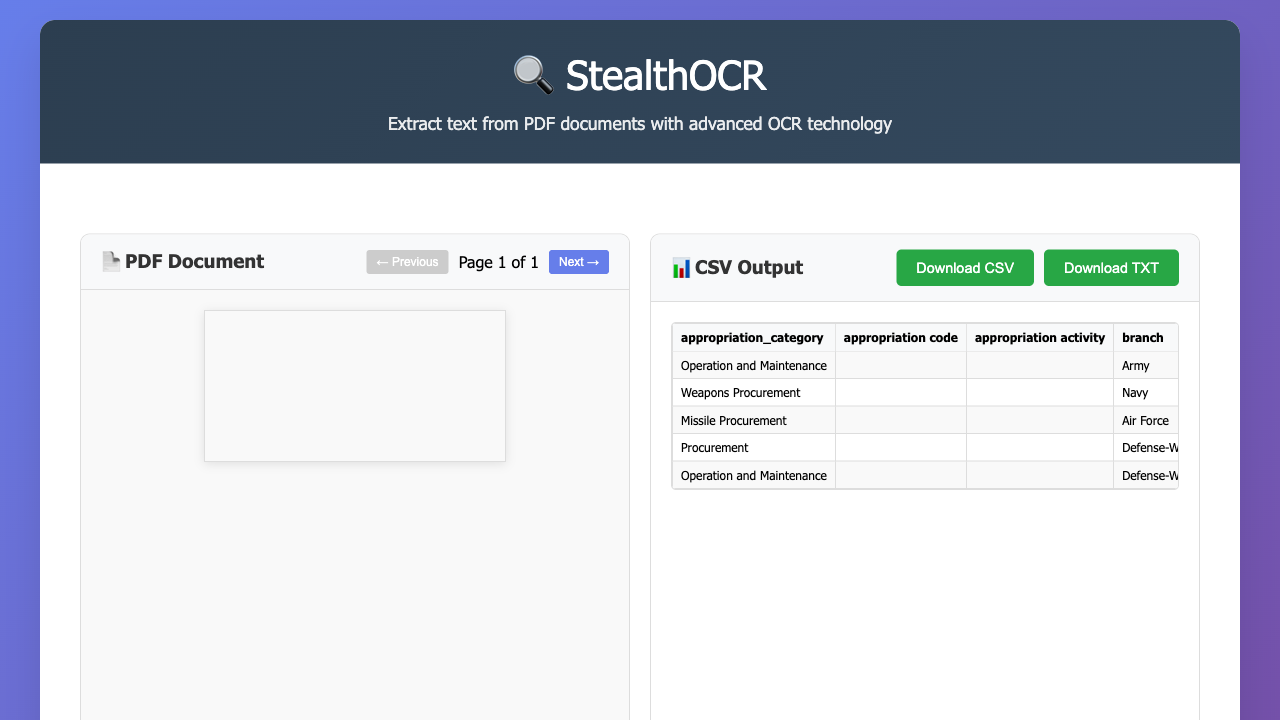
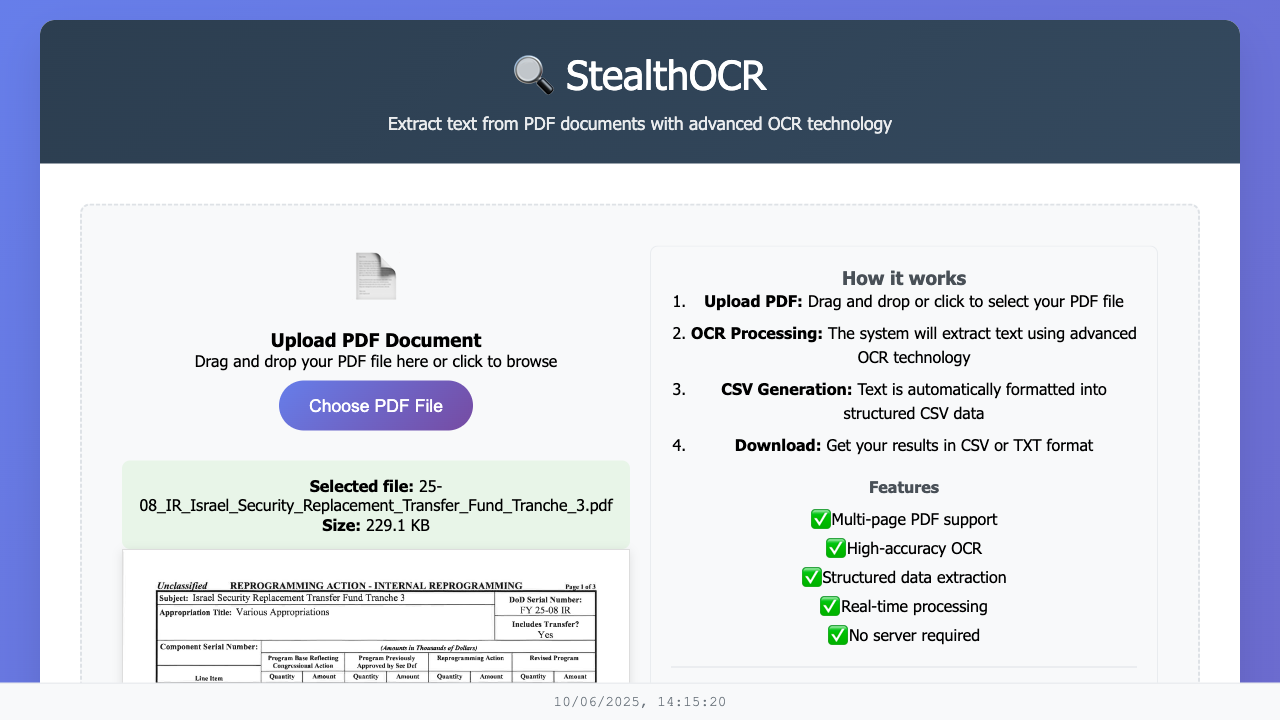
Fix layout issues with instructions column interfering with CSV viewer
- Limited instructions column width to max 400px to prevent taking too much space
- Added JavaScript to hide instructions column when results are shown
- Modified showResults() to hide instructions and expand PDF column
- Updated resetForm() to restore original two-column layout
- Ensured CSV viewer has proper space when results are displayed
- Fixed layout transitions between upload and results states

diff --git a/index.html b/index.html
@@ -50,6 +50,7 @@
 
         .main-content {
             padding: 40px;
+            padding-bottom: 60px;
         }
 
         .upload-section {
@@ -157,6 +158,7 @@
         .instructions-column {
             flex: 1;
             min-width: 0;
+            max-width: 400px; /* Limit width so it doesn't take too much space */
         }
         
         .instructions-content {
@@ -311,6 +313,20 @@
             grid-template-columns: 1fr 1fr;
             gap: 20px;
             height: 80vh;
+        }
+        
+        /* When results are shown, hide instructions and expand PDF column */
+        .results-layout.show ~ .upload-section .instructions-column {
+            display: none;
+        }
+        
+        .results-layout.show ~ .upload-section .pdf-column {
+            flex: 1;
+            max-width: none;
+        }
+        
+        .results-layout.show ~ .upload-section .upload-layout {
+            display: block; /* Change from flex to block when results are shown */
         }
 
         .pdf-viewer-section,
@@ -1011,6 +1027,25 @@ The action is determined to be necessary in the national interest and meets all 
             resultsLayout.classList.add('show');
             console.log('Added show class to resultsLayout');
             
+            // Hide instructions column and expand PDF column when results are shown
+            const instructionsColumn = document.querySelector('.instructions-column');
+            const pdfColumn = document.querySelector('.pdf-column');
+            const uploadLayout = document.querySelector('.upload-layout');
+            
+            if (instructionsColumn) {
+                instructionsColumn.style.display = 'none';
+                console.log('Hidden instructions column');
+            }
+            if (pdfColumn) {
+                pdfColumn.style.flex = '1';
+                pdfColumn.style.maxWidth = 'none';
+                console.log('Expanded PDF column');
+            }
+            if (uploadLayout) {
+                uploadLayout.style.display = 'block';
+                console.log('Changed upload layout to block');
+            }
+            
             // Store extracted text
             extractedText = result.text;
             
@@ -1159,6 +1194,22 @@ The action is determined to be necessary in the national interest and meets all 
             fileInfo.classList.remove('show');
             processingSection.classList.remove('show');
             resultsLayout.classList.remove('show');
+            
+            // Restore original layout
+            const instructionsColumn = document.querySelector('.instructions-column');
+            const pdfColumn = document.querySelector('.pdf-column');
+            const uploadLayout = document.querySelector('.upload-layout');
+            
+            if (instructionsColumn) {
+                instructionsColumn.style.display = 'block';
+            }
+            if (pdfColumn) {
+                pdfColumn.style.flex = '1';
+                pdfColumn.style.maxWidth = 'none';
+            }
+            if (uploadLayout) {
+                uploadLayout.style.display = 'flex';
+            }
             
             // Clear PDF canvas
             const canvas = pdfCanvas;

diff --git a/test_layout.py b/test_layout.py
@@ -1,0 +1,111 @@
+#!/usr/bin/env python3
+"""
+Test the layout structure of the StealthOCR page
+"""
+
+import asyncio
+from playwright.async_api import async_playwright
+
+async def test_layout():
+    """Test the page layout and structure"""
+    
+    async with async_playwright() as p:
+        browser = await p.chromium.launch(headless=False, slow_mo=1000)
+        context = await browser.new_context()
+        page = await context.new_page()
+        
+        try:
+            print("🌐 Loading GitHub Pages...")
+            await page.goto("https://syzygyx.github.io/StealthOCR/")
+            await page.wait_for_load_state("networkidle")
+            
+            print("✅ Page loaded successfully")
+            
+            # Check if upload section is visible
+            upload_section = page.locator("#uploadSection")
+            await upload_section.wait_for(state="visible", timeout=10000)
+            print("✅ Upload section is visible")
+            
+            # Check for two-column layout
+            upload_layout = page.locator(".upload-layout")
+            if await upload_layout.is_visible():
+                print("✅ Upload layout container is visible")
+                
+                # Check left column (PDF)
+                pdf_column = page.locator(".pdf-column")
+                if await pdf_column.is_visible():
+                    print("✅ PDF column is visible")
+                else:
+                    print("❌ PDF column not visible")
+                
+                # Check right column (instructions)
+                instructions_column = page.locator(".instructions-column")
+                if await instructions_column.is_visible():
+                    print("✅ Instructions column is visible")
+                else:
+                    print("❌ Instructions column not visible")
+                
+                # Check if they're side by side
+                pdf_column_box = await pdf_column.bounding_box()
+                instructions_column_box = await instructions_column.bounding_box()
+                
+                if pdf_column_box and instructions_column_box:
+                    print(f"📊 PDF column position: x={pdf_column_box['x']:.0f}, y={pdf_column_box['y']:.0f}")
+                    print(f"📊 Instructions column position: x={instructions_column_box['x']:.0f}, y={instructions_column_box['y']:.0f}")
+                    
+                    # Check if they're positioned side by side (instructions should be to the right of PDF)
+                    if instructions_column_box['x'] > pdf_column_box['x']:
+                        print("✅ Columns are positioned side by side")
+                    else:
+                        print("❌ Columns are not positioned side by side")
+                else:
+                    print("❌ Could not get column positions")
+            else:
+                print("❌ Upload layout container not visible")
+            
+            # Check for date/time footer
+            footer = page.locator(".footer")
+            if await footer.is_visible():
+                print("✅ Footer is visible")
+                
+                datetime_display = page.locator("#currentDateTime")
+                if await datetime_display.is_visible():
+                    datetime_text = await datetime_display.text_content()
+                    print(f"✅ Date/time display: {datetime_text}")
+                else:
+                    print("❌ Date/time display not visible")
+            else:
+                print("❌ Footer not visible")
+            
+            # Check validation button
+            validation_btn = page.locator("#runExampleBtn")
+            if await validation_btn.is_visible():
+                print("✅ Validation button is visible")
+                
+                # Click validation button to test
+                await validation_btn.click()
+                await page.wait_for_timeout(2000)
+                
+                validation_results = page.locator("#validationResults")
+                if await validation_results.is_visible():
+                    print("✅ Validation results panel opened")
+                else:
+                    print("❌ Validation results panel not opened")
+            else:
+                print("❌ Validation button not visible")
+            
+            # Take a screenshot
+            await page.screenshot(path="layout_test_result.png")
+            print("📸 Screenshot saved as layout_test_result.png")
+            
+        except Exception as e:
+            print(f"❌ Test failed with error: {e}")
+            await page.screenshot(path="layout_test_error.png")
+            print("📸 Error screenshot saved as layout_test_error.png")
+            raise
+        
+        finally:
+            await browser.close()
+
+if __name__ == "__main__":
+    asyncio.run(test_layout())
